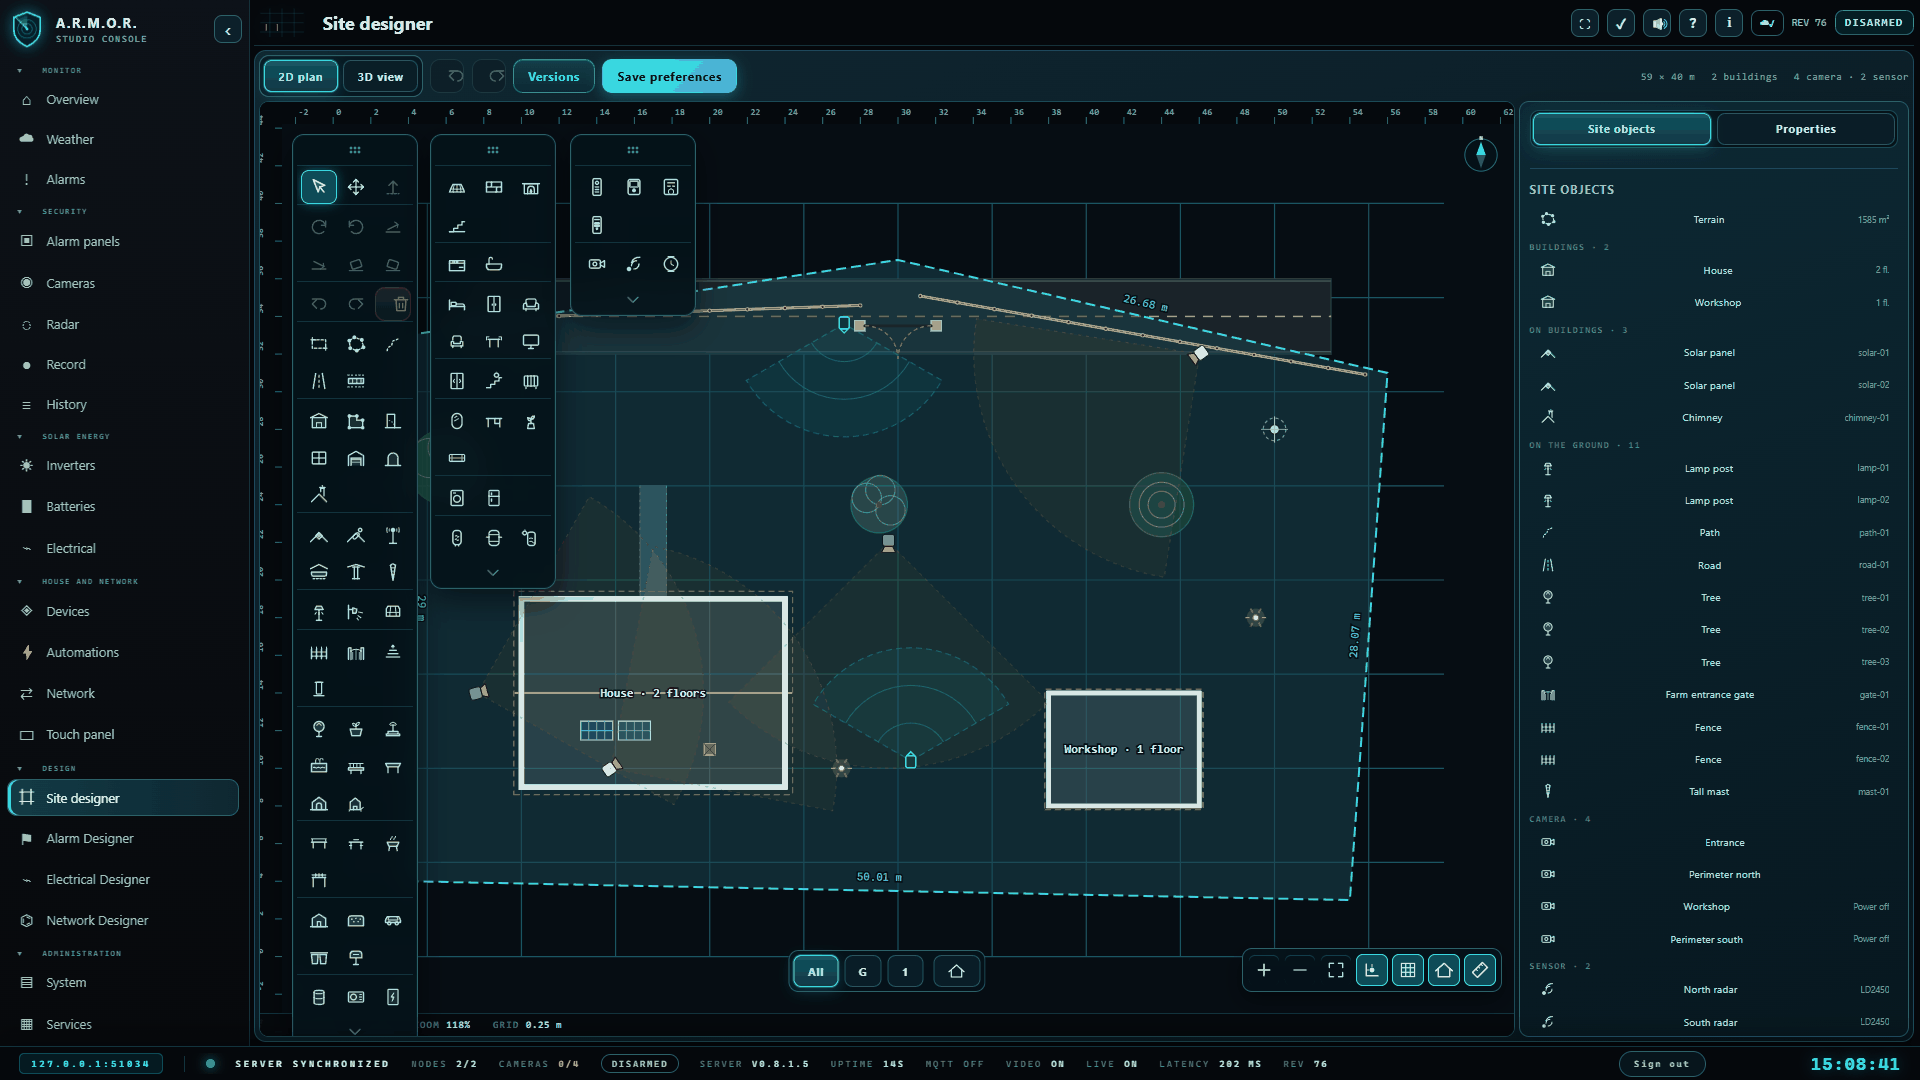
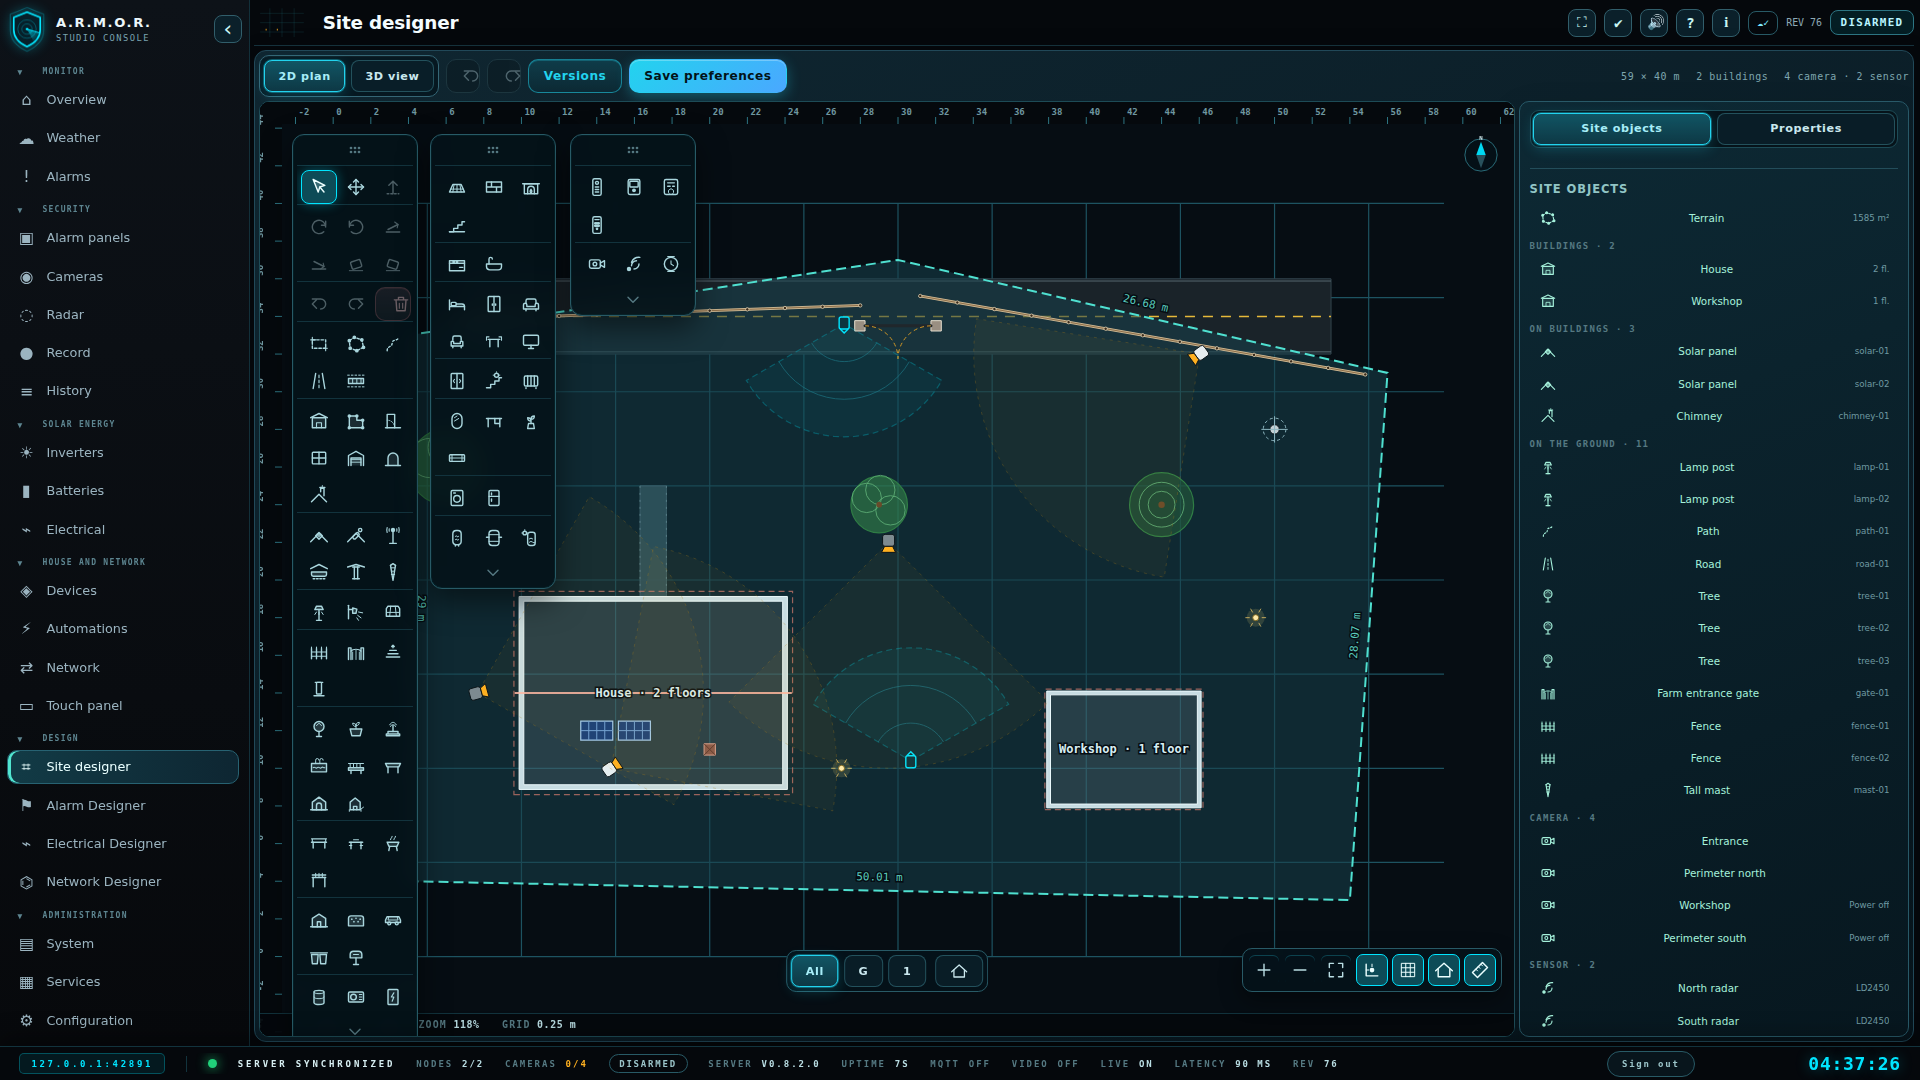
Take the ten README pictures again with one browser

diff --git a/CHANGELOG.md b/CHANGELOG.md
@@ -4,6 +4,8 @@ All notable changes to this project are documented here.
 
 ## [Unreleased]
 
+- **The ten pictures of the README are taken again in one go, with the same browser and fonts:** they were a mix of two browsers (Edge on Windows and Chromium on Linux); now every one comes from the screenshots job on a runner against a real server fed by the simulator with made-up data, so the typography and the sizes agree.
+
 ## [0.8.2.3] - The card of the programs of the machine is no longer hidden when the maintenance console is off: it is the place that says how the helper is turned on, so Configuration > Updates now shows it even when the console is not... (and 3 more changes)
 
 - **The card of the programs of the machine is no longer hidden when the maintenance console is off:** it is the place that says how the helper is turned on, so Configuration > Updates now shows it even when the console is not available.
